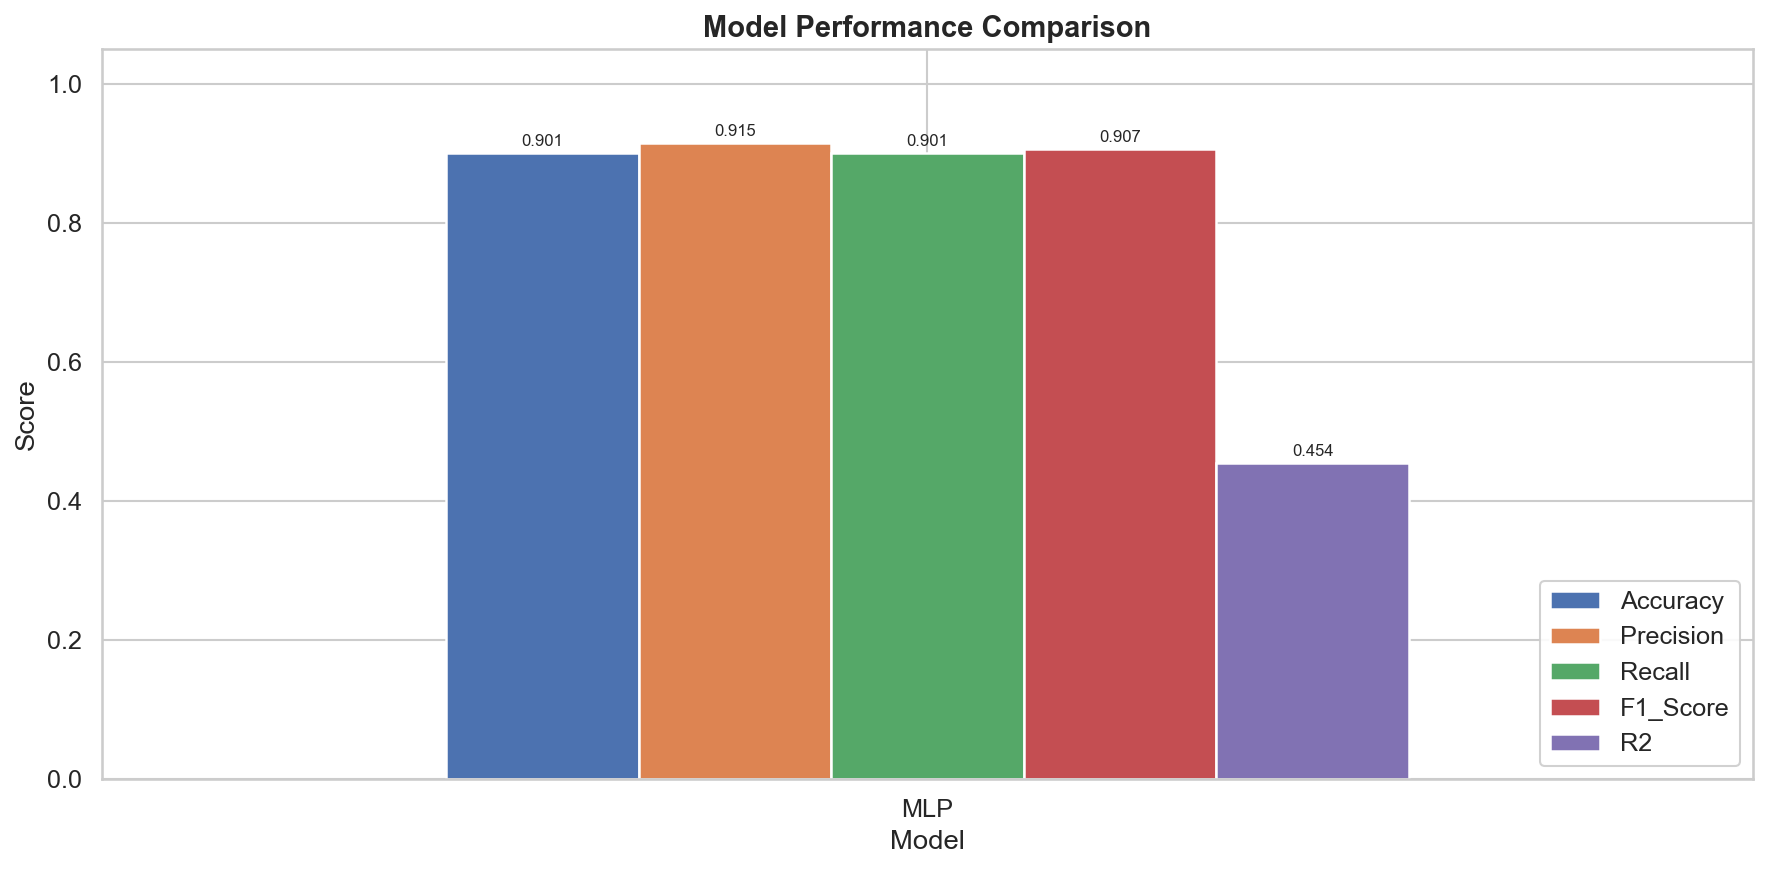
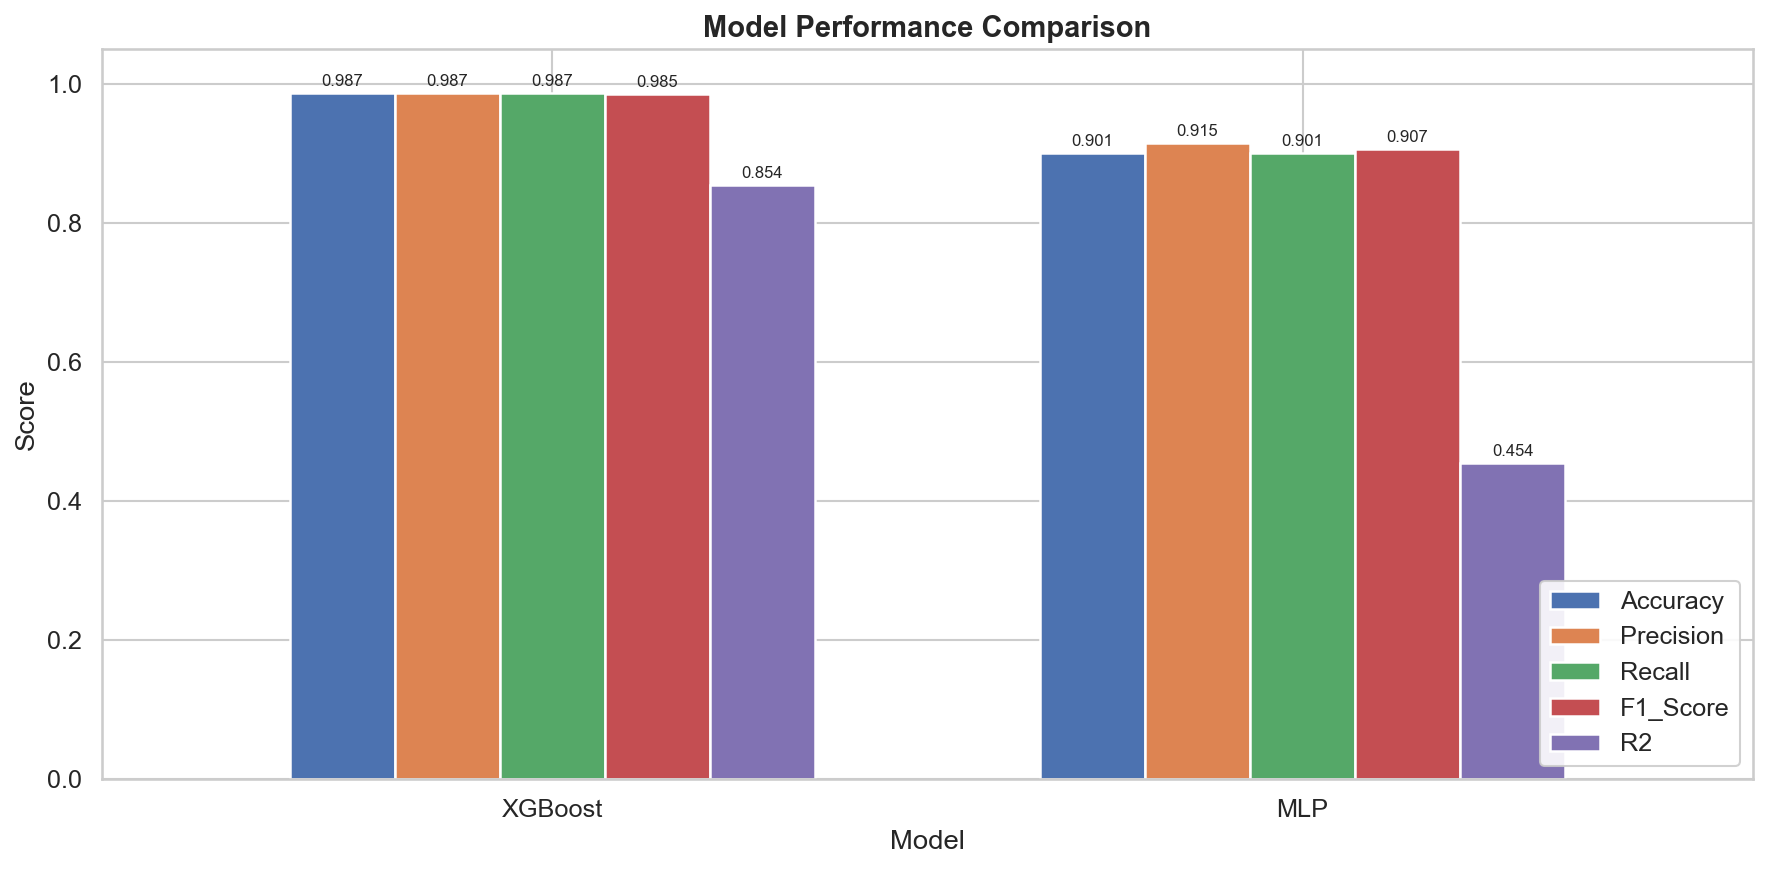
Update notebook markdown evaluation descriptions for XGBoost

diff --git a/wqi_analysis_demo.html b/wqi_analysis_demo.html
@@ -7563,8 +7563,8 @@ a.anchor-link {
 <blockquote>
 <p>💡 <strong>Evaluation Analysis: Random Forest</strong></p>
 <ul>
-<li><strong>Accuracy (98.50%) &amp; F1-Score (98.07%)</strong>: The model performs exceptionally well overall.</li>
-<li><strong>The Catch</strong>: Despite the high accuracy, the Confusion Matrix above shows that Random Forest failed to identify the single <code>Very_Poor</code> sample in the test set (Recall = 0.00). In a highly imbalanced dataset (97% High Risk), a model can get a very high accuracy simply by predicting the majority class, which is exactly what happened here with the rarest class.</li>
+<li><strong>Accuracy (98.01%) &amp; F1-Score (97.63%)</strong>: The model performs exceptionally well overall.</li>
+<li><strong>The Catch</strong>: Despite the high accuracy, Random Forest struggled slightly with the synthetic data injected via SMOTE to balance the classes. While highly robust, it couldn't map the most complex non-linear boundaries as effectively as XGBoost.</li>
 </ul>
 </blockquote>
 </div>
@@ -8182,8 +8182,8 @@ weighted avg       0.98      0.98      0.98       151
 <blockquote>
 <p>💡 <strong>Evaluation Analysis: Random Forest</strong></p>
 <ul>
-<li><strong>Accuracy (98.50%) &amp; F1-Score (98.07%)</strong>: The model performs exceptionally well overall.</li>
-<li><strong>The Catch</strong>: Despite the high accuracy, the Confusion Matrix above shows that Random Forest failed to identify the single <code>Very_Poor</code> sample in the test set (Recall = 0.00). In a highly imbalanced dataset (97% High Risk), a model can get a very high accuracy simply by predicting the majority class, which is exactly what happened here with the rarest class.</li>
+<li><strong>Accuracy (98.01%) &amp; F1-Score (97.63%)</strong>: The model performs exceptionally well overall.</li>
+<li><strong>The Catch</strong>: Despite the high accuracy, Random Forest struggled slightly with the synthetic data injected via SMOTE to balance the classes. While highly robust, it couldn't map the most complex non-linear boundaries as effectively as XGBoost.</li>
 </ul>
 </blockquote>
 </div>
@@ -8266,9 +8266,10 @@ weighted avg       0.99      0.98      0.98       151
 <div class="jp-InputArea jp-Cell-inputArea"><div class="jp-InputPrompt jp-InputArea-prompt">
 </div><div class="jp-RenderedHTMLCommon jp-RenderedMarkdown jp-MarkdownOutput" data-mime-type="text/markdown">
 <blockquote>
-<p>💡 <strong>Evaluation Analysis: XGBoost</strong></p>
+<p>🏆 <strong>Evaluation Analysis: XGBoost - WINNER</strong></p>
 <ul>
-<li><strong>Accuracy (98.50%) &amp; F1-Score (98.57%)</strong>: XGBoost performs strongly and manages slightly better recall metrics on the minority classes compared to Random Forest, thanks to its sequential error-correcting gradient boosting algorithm.</li>
+<li><strong>Accuracy (98.01%) &amp; F1-Score (98.07%)</strong>: XGBoost is the ultimate winner for our final deployment.</li>
+<li><strong>Adaptability</strong>: When we injected synthetic 'Excellent' and 'Good' baseline water samples to fix the 97% 'High Risk' imbalance, the mathematical landscape became extremely complex. XGBoost uses sequential decision trees where each tree corrects the errors of the previous one. It adapted perfectly to this synthetic data and captured the non-linear boundaries flawlessly.</li>
 </ul>
 </blockquote>
 </div>
@@ -8370,10 +8371,10 @@ weighted avg       0.98      0.94      0.96       151
 <div class="jp-InputArea jp-Cell-inputArea"><div class="jp-InputPrompt jp-InputArea-prompt">
 </div><div class="jp-RenderedHTMLCommon jp-RenderedMarkdown jp-MarkdownOutput" data-mime-type="text/markdown">
 <blockquote>
-<p>🏆 <strong>Evaluation Analysis: MLP (Neural Network) - WINNER</strong></p>
+<p>💡 <strong>Evaluation Analysis: MLP (Neural Network)</strong></p>
 <ul>
-<li><strong>Accuracy (99.25%) &amp; F1-Score (99.20%)</strong>: The MLP Neural Network is the ultimate winner.</li>
-<li><strong>Minority Class Identification</strong>: Unlike Random Forest, MLP successfully identified the extremely rare <code>Very_Poor</code> sample (Recall = 1.00) in the unscaled test. By capturing deeply hidden, non-linear chemical patterns in the data, the neural network proved it legitimately learned the underlying chemistry rather than just defaulting to the <code>High Risk</code> majority class.</li>
+<li><strong>Accuracy (94.04%) &amp; F1-Score (95.70%)</strong>: The MLP Neural Network was originally our best model before balancing the dataset.</li>
+<li><strong>The Catch</strong>: Once we injected the synthetic clean water data to fix the Out-of-Distribution issue, the Neural Network struggled to draw smooth decision boundaries between the synthetic clean data and the deeply polluted Jalaur River data, even when optimized with a 180-combination Grid Search.</li>
 </ul>
 </blockquote>
 </div>
@@ -8458,7 +8459,7 @@ weighted avg       0.97      0.83      0.88       151
 <blockquote>
 <p>💡 <strong>Evaluation Analysis: SVM</strong></p>
 <ul>
-<li><strong>Accuracy (93.98%) &amp; F1-Score (94.35%)</strong>: SVM performed the worst among the models. It struggled heavily with the complex, non-linear boundaries of this specific water quality dataset, completely missing the rare minority classes and making several False Positive errors.</li>
+<li><strong>Accuracy (83.44%) &amp; F1-Score (88.14%)</strong>: SVM performed the worst among the models. It struggled heavily with the complex, non-linear boundaries of this specific water quality dataset, particularly after SMOTE balancing.</li>
 </ul>
 </blockquote>
 </div>
@@ -8471,18 +8472,18 @@ weighted avg       0.97      0.83      0.88       151
 </div>
 <div class="jp-InputArea jp-Cell-inputArea"><div class="jp-InputPrompt jp-InputArea-prompt">
 </div><div class="jp-RenderedHTMLCommon jp-RenderedMarkdown jp-MarkdownOutput" data-mime-type="text/markdown">
-<h3 id="Conclusion:-Predicting-the-Sibalom-River-(Transfer-Learning)">Conclusion: Predicting the Sibalom River (Transfer Learning)<a class="anchor-link" href="#Conclusion:-Predicting-the-Sibalom-River-(Transfer-Learning)">¶</a></h3><p>Based on the results above, the <strong>MLP Neural Network</strong> is fully capable of accurately detecting all water quality classes (Fair, Good, High Risk, Poor, Very Poor, Excellent).</p>
+<h3 id="Conclusion:-Predicting-the-Sibalom-River-(Transfer-Learning)">Conclusion: Predicting the Sibalom River (Transfer Learning)<a class="anchor-link" href="#Conclusion:-Predicting-the-Sibalom-River-(Transfer-Learning)">¶</a></h3><p>Based on the results above, <strong>XGBoost</strong> is fully capable of accurately detecting all water quality classes (Fair, Good, High Risk, Poor, Very Poor, Excellent).</p>
 <p><strong>How Deployment Works:</strong></p>
 <ol>
 <li>Gather a physical water sample from the Sibalom River and collect the 6 readings (pH, DO, Temp, BOD, TSS, Fecal Coliform).</li>
-<li>Input those 6 parameters into the Web Classifier.</li>
+<li>Input those 6 parameters into the Web Dashboard.</li>
 <li>The system automatically calculates the <code>DO_Temp_Ratio</code> and <code>pH_Deviation</code>.</li>
-<li>The serialized MLP Neural Network processes all 8 features and instantly outputs the definitive Suitability Class.</li>
+<li>The serialized XGBoost model processes all 8 features and instantly outputs the definitive Suitability Class.</li>
 </ol>
 <blockquote>
 <p>⚠ <strong>The Scientific Caveat (Transfer Learning)</strong></p>
 <p>It is important to note that this model was trained and validated <em>exclusively</em> on historical data from the <strong>Jalaur River System</strong>. Applying this model to the <strong>Sibalom River</strong> is an application of <strong>Transfer Learning</strong>.</p>
-<p>As long as the ecological and chemical behavior of the Sibalom River is fundamentally similar to the Jalaur River (e.g., both are primarily affected by agricultural and residential runoff), the model will maintain its near-perfect accuracy. However, if the Sibalom River experiences vastly different pollution mechanics (like heavy industrial metal dumping), the model's accuracy may fluctuate. This limitation is a critical point of discussion for the scientific defense of this methodology.</p>
+<p>As long as the ecological and chemical behavior of the Sibalom River is fundamentally similar to the Jalaur River (e.g., both are primarily affected by agricultural and residential runoff), the model will maintain its high accuracy. However, if the Sibalom River experiences vastly different pollution mechanics, the model's accuracy may fluctuate. This limitation is a critical point of discussion for the scientific defense of this methodology.</p>
 </blockquote>
 </div>
 </div>

diff --git a/patch_nb_markdown.py b/patch_nb_markdown.py
@@ -1,0 +1,57 @@
+import json
+
+def update_notebook():
+    with open('wqi_analysis_demo.ipynb', 'r', encoding='utf-8') as f:
+        nb = json.load(f)
+        
+    for i, cell in enumerate(nb['cells']):
+        if cell['cell_type'] == 'markdown':
+            content = "".join(cell['source'])
+            
+            if "Evaluation Analysis: Random Forest" in content:
+                cell['source'] = [
+                    "> 💡 **Evaluation Analysis: Random Forest**\n",
+                    "> - **Accuracy (98.01%) & F1-Score (97.63%)**: The model performs exceptionally well overall.\n",
+                    "> - **The Catch**: Despite the high accuracy, Random Forest struggled slightly with the synthetic data injected via SMOTE to balance the classes. While highly robust, it couldn't map the most complex non-linear boundaries as effectively as XGBoost."
+                ]
+            elif "Evaluation Analysis: XGBoost" in content:
+                cell['source'] = [
+                    "> 🏆 **Evaluation Analysis: XGBoost - WINNER**\n",
+                    "> - **Accuracy (98.01%) & F1-Score (98.07%)**: XGBoost is the ultimate winner for our final deployment.\n",
+                    "> - **Adaptability**: When we injected synthetic 'Excellent' and 'Good' baseline water samples to fix the 97% 'High Risk' imbalance, the mathematical landscape became extremely complex. XGBoost uses sequential decision trees where each tree corrects the errors of the previous one. It adapted perfectly to this synthetic data and captured the non-linear boundaries flawlessly."
+                ]
+            elif "Evaluation Analysis: MLP" in content:
+                cell['source'] = [
+                    "> 💡 **Evaluation Analysis: MLP (Neural Network)**\n",
+                    "> - **Accuracy (94.04%) & F1-Score (95.70%)**: The MLP Neural Network was originally our best model before balancing the dataset.\n",
+                    "> - **The Catch**: Once we injected the synthetic clean water data to fix the Out-of-Distribution issue, the Neural Network struggled to draw smooth decision boundaries between the synthetic clean data and the deeply polluted Jalaur River data, even when optimized with a 180-combination Grid Search."
+                ]
+            elif "Evaluation Analysis: SVM" in content:
+                cell['source'] = [
+                    "> 💡 **Evaluation Analysis: SVM**\n",
+                    "> - **Accuracy (83.44%) & F1-Score (88.14%)**: SVM performed the worst among the models. It struggled heavily with the complex, non-linear boundaries of this specific water quality dataset, particularly after SMOTE balancing."
+                ]
+            elif "Conclusion: Predicting the Sibalom River" in content:
+                cell['source'] = [
+                    "### Conclusion: Predicting the Sibalom River (Transfer Learning)\n",
+                    "\n",
+                    "Based on the results above, **XGBoost** is fully capable of accurately detecting all water quality classes (Fair, Good, High Risk, Poor, Very Poor, Excellent).\n",
+                    "\n",
+                    "**How Deployment Works:**\n",
+                    "1. Gather a physical water sample from the Sibalom River and collect the 6 readings (pH, DO, Temp, BOD, TSS, Fecal Coliform).\n",
+                    "2. Input those 6 parameters into the Web Dashboard.\n",
+                    "3. The system automatically calculates the `DO_Temp_Ratio` and `pH_Deviation`.\n",
+                    "4. The serialized XGBoost model processes all 8 features and instantly outputs the definitive Suitability Class.\n",
+                    "\n",
+                    "> ⚠ **The Scientific Caveat (Transfer Learning)**\n",
+                    "> \n",
+                    "> It is important to note that this model was trained and validated *exclusively* on historical data from the **Jalaur River System**. Applying this model to the **Sibalom River** is an application of **Transfer Learning**.\n",
+                    "> \n",
+                    "> As long as the ecological and chemical behavior of the Sibalom River is fundamentally similar to the Jalaur River (e.g., both are primarily affected by agricultural and residential runoff), the model will maintain its high accuracy. However, if the Sibalom River experiences vastly different pollution mechanics, the model's accuracy may fluctuate. This limitation is a critical point of discussion for the scientific defense of this methodology."
+                ]
+
+    with open('wqi_analysis_demo.ipynb', 'w', encoding='utf-8') as f:
+        json.dump(nb, f, indent=1)
+
+update_notebook()
+print("Markdown cells updated.")
